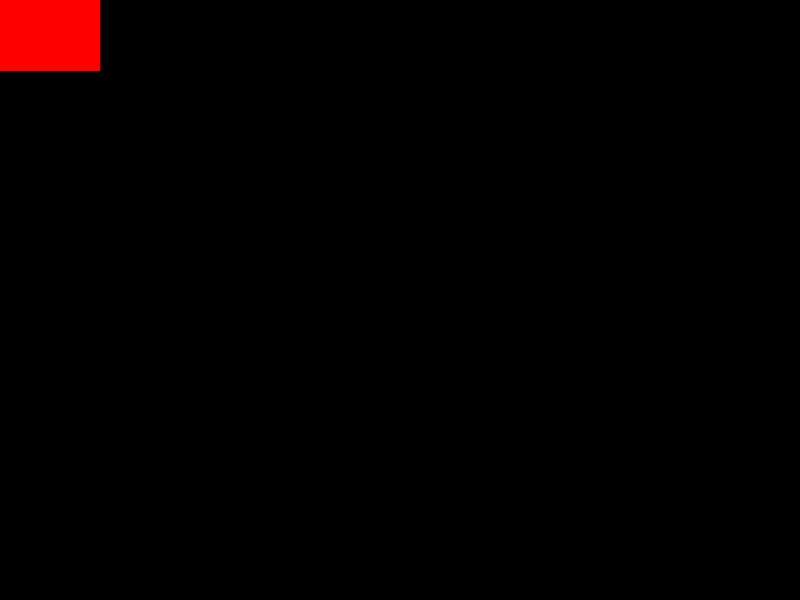
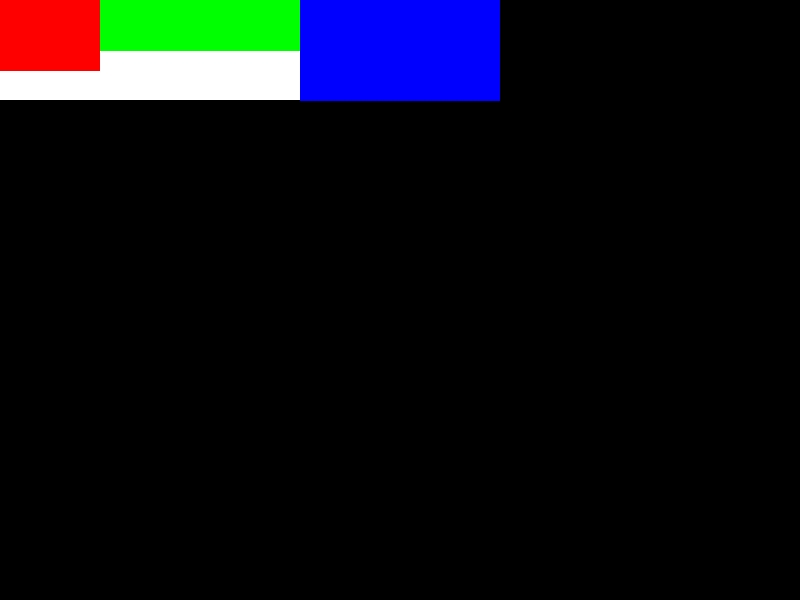
绘制全部有大小的dom元素

Changed region(s): [[0.0, 0.0, 0.625, 0.18]]

diff --git a/Week 10/layout.js b/Week 10/layout.js
@@ -196,8 +196,8 @@ function layout(element) {
         }
     }
     else {
-        flexLines.forEach(function (item) {
-            let mainSpace = item.mainSpace;
+        flexLines.forEach(function (items) {
+            let mainSpace = items.mainSpace;
             let flexTotal = 0;
 
             for (let i = 0; i < items.length; ++i) {
@@ -220,7 +220,7 @@ function layout(element) {
                     }
 
                     itemStyle[mainStart] = currentMain;
-                    itemStyle[mainEnd] = itemStyle[mainStart] * mainSign * itemStyle[mainSize];
+                    itemStyle[mainEnd] = itemStyle[mainStart] + mainSign * itemStyle[mainSize];
                     currentMain = itemStyle[mainEnd];
                 }
             }

diff --git a/Week 10/render.js b/Week 10/render.js
@@ -11,6 +11,12 @@ function render(viewport, element) {
             viewport.draw(img, element.style.left||0, element.style.top||0);
         }
     }
+
+    if (element.children) {
+        for (let child of element.children) {
+            render(viewport, child);
+        }
+    }
 }
 
 module.exports = {

diff --git a/Week 10/web_client.js b/Week 10/web_client.js
@@ -23,7 +23,7 @@ void async function () {
 
     let viewport = images(800, 600);
 
-    render(viewport, dom.children[3].children[1]);
+    render(viewport, dom);
 
     viewport.save("viewport.jpg");
 }();
